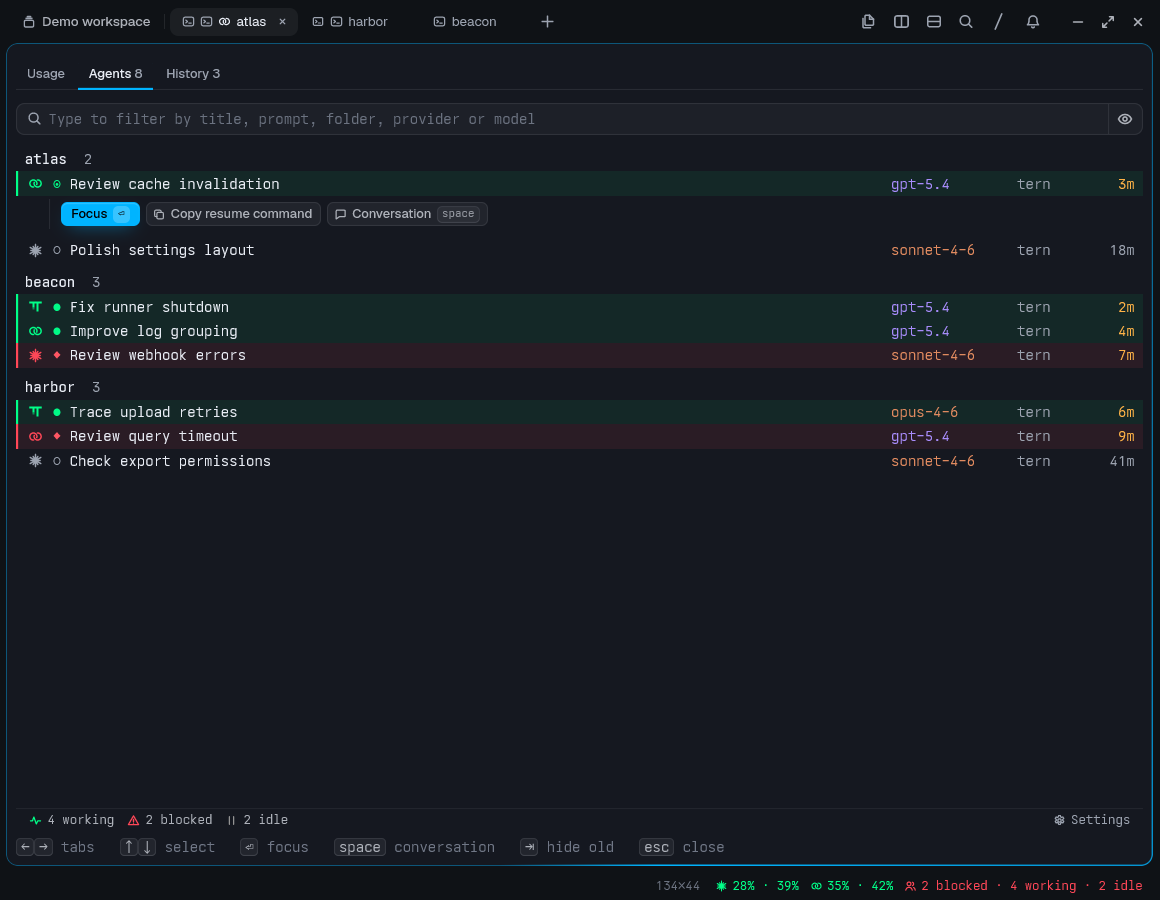
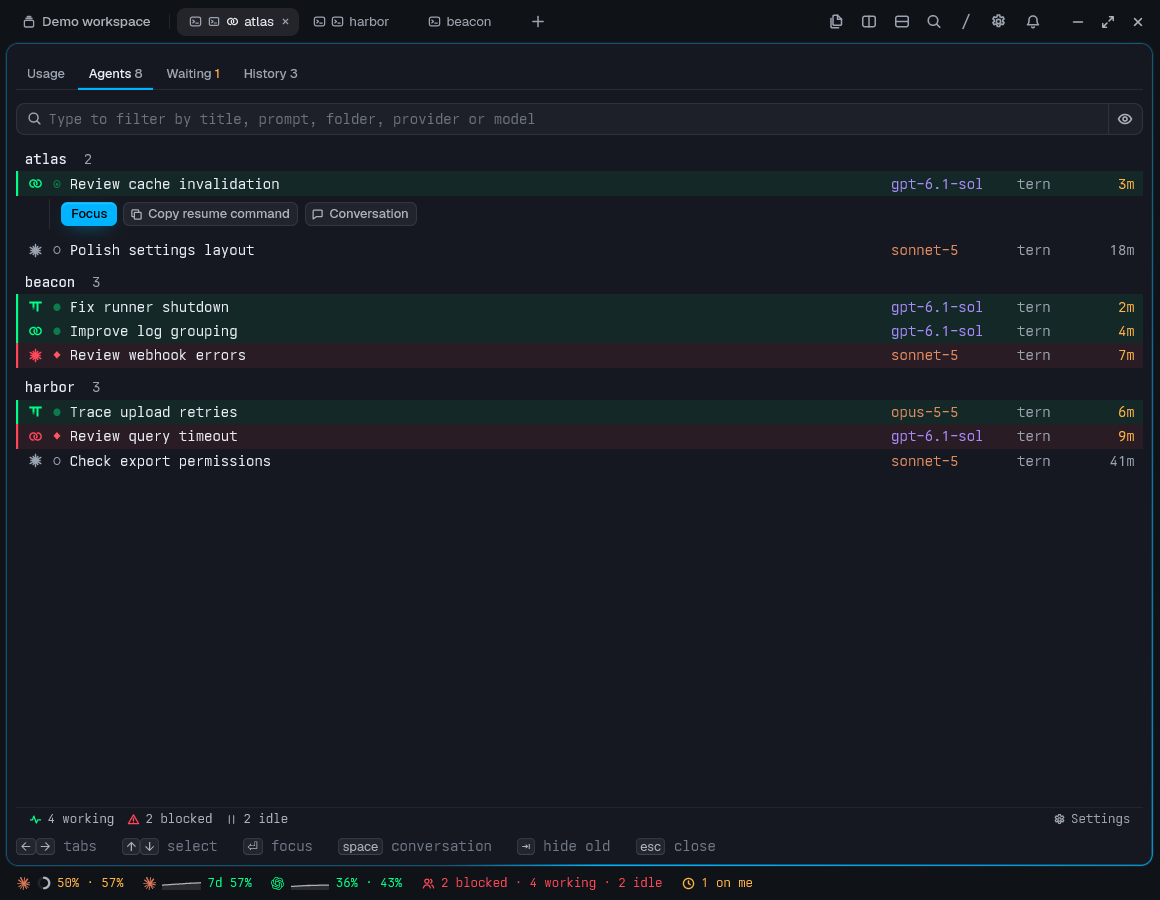
docs(tern): re-shoot the README screenshots with a script
film/shoot_tern.py reuses take_tern.py's scratch world (private Tern daemon,
stand-in agents, fixture sessions and usage, three sessions set aside) in a
1160x900 window. It crops the widget bar with the Claude widget's details,
zooms the dashboard and shoots Usage (grown to fit its providers), Agents,
Waiting, History and the Settings dialog straight into docs/tern/, with
toasts hidden.

The shots now show current model names and buttons without key hints, and
the Waiting tab gets its own screenshot in the README's row.

diff --git a/film/shoot_tern.py b/film/shoot_tern.py
@@ -1,0 +1,162 @@
+#!/usr/bin/env python3
+# /// script
+# requires-python = ">=3.11"
+# dependencies = ["pillow"]
+# ///
+"""Shoots the README's Tern screenshots into docs/tern/: the widget bar with the Claude widget's
+details, then the dashboard zoomed to fill the window on each tab (Usage, Agents, Waiting with a
+row's details open, History) and the Settings dialog over it.
+
+It runs take_tern.py's world (scratch HOME, private Tern daemon, stand-in agents, fixture
+agents.json and usage, three sessions set aside) in a 1160x900 window; Usage grows the window to
+fit its providers. Toasts are hidden so none covers a shot. WORK keeps the raw shots and their
+layout JSON; the next run replaces it.
+
+    headless-gui --size 1600x1000 -- uv run film/shoot_tern.py [WORK]
+        (default WORK /tmp/codexbar-agentview-shots-tern)
+
+Needs Tern and a Wayland session; headless-gui keeps the window off your desktop.
+"""
+
+import json
+import re
+import sys
+import time
+from pathlib import Path
+
+from PIL import Image
+
+sys.path.insert(0, str(Path(__file__).resolve().parent))
+import take_tern as base  # noqa: E402
+
+DOCS = base.REPO / "docs/tern"
+COMMAND = "plugin.codexbar-agentview."
+# The dashboard's tab strip, in this order, and the Settings dialog over it.
+TABS = ["usage", "agents", "waiting", "history"]
+TAB = r"sf-tabs\.kit-tabs>div\.kit-tab\.sf-tab[.a-z-]*$"
+PREFS = r"sf-prefs\.sf-act\.sf-window$"
+# Usage's provider cards, and the status bar and key hints docked under them.
+CARD = r"sf-region\.sf-main[.a-z-]*>div\.sf\.sf-card[.a-z-]*$"
+DOCK = r"sf-region\.sf-dock[.a-z-]*$"
+# The plugin's widgets at the widget bar's start (the first is Claude's), and a widget's details.
+WIDGET = r"footer#widgetbar>div\.wg-row>div\.wg\.carded[.a-z]*$"
+DETAILS = r"kit-popover\.wgc$"
+# Room between Usage's last card and its status bar, as the window grows to fit them.
+USAGE_GAP = 48
+
+
+class Shots(base.Take):
+    size = (1160, 900)
+
+    def prepare(self):
+        super().prepare()
+        # The tick that brings the passed check back on you toasts; a toast would cover a shot.
+        with open(self.work / "film.css", "a") as css:
+            css.write("div.toast { display: none !important; }\n")
+
+    def visible(self, pattern: str) -> list[list[float]]:
+        return [e["rect"] for e in self.layout()
+                if e["visible"] and e["rect"][2] > 0 and re.search(pattern, e["path"])]
+
+    def park_pointer(self):
+        """Puts the pointer in the window's corner, off every control, so nothing shows a hover."""
+        self.ctl("move", "4", str(self.height - 4))
+
+    def resize(self, height: int):
+        self.height = height
+        self.ctl("resize", str(self.size[0]), str(height))
+        time.sleep(1.0)
+        self.park_pointer()
+
+    def snap(self, name: str) -> Image.Image:
+        """Shoots the window, after a moment for it to settle."""
+        time.sleep(0.6)
+        self.ctl("shot", name)
+        return Image.open(self.shots / f"{name}.png")
+
+    def save(self, image: Image.Image, name: str):
+        image.save(DOCS / f"{name}.png", optimize=True)
+        print(f"docs/tern/{name}.png {image.width}x{image.height}")
+
+    def until(self, check, what: str, timeout=8.0):
+        deadline = time.monotonic() + timeout
+        while not check():
+            if time.monotonic() >= deadline:
+                raise RuntimeError(f"timed out waiting for {what}")
+            time.sleep(0.2)
+
+    def dashboard_block(self) -> dict | None:
+        return next((b for b in self.blocks() if str(b.get("program", "")).startswith("codexbar-agentview.dashboard")), None)
+
+    def open_dashboard(self):
+        """Opens Agents, which places the dashboard beside the tab's panes, then zooms its pane."""
+        self.ctl("plugins", "run", COMMAND + "agents")
+        self.until(lambda: (b := self.dashboard_block()) and b.get("focused"), "the dashboard")
+        # Its placement runs on a timer after it opens.
+        time.sleep(1.5)
+        self.ctl("zoom")
+        self.until(lambda: any(t.get("zoomed") for s in json.loads(self.tern("ls", "--json"))["sessions"]
+                               for t in s["tabs"] if t.get("shown")), "the zoomed dashboard")
+        self.show_tab("agents", run=False)
+
+    def show_tab(self, tab: str, run=True):
+        if run:
+            self.ctl("plugins", "run", COMMAND + tab)
+
+        def shown():
+            tabs = sorted(((e["rect"][0], e["path"]) for e in self.layout()
+                           if e["visible"] and e["rect"][2] > 0 and re.search(TAB, e["path"])))
+            return len(tabs) == len(TABS) and ".on" in tabs[TABS.index(tab)][1].rsplit(">", 1)[-1]
+
+        self.until(shown, f"the {tab} tab")
+        time.sleep(0.8)
+
+    def widget_bar(self):
+        """The bar's start with the Claude widget's details open over it."""
+        x, y, w, h = self.visible(WIDGET)[0]
+        self.ctl("move", f"{x + w / 2:.1f}", f"{y + h / 2:.1f}")
+        self.until(lambda: self.visible(DETAILS), "the Claude widget's details")
+        details = self.visible(DETAILS)[0]
+        right = max(r[0] + r[2] for r in self.visible(WIDGET))
+        image = self.snap("widget-bar")
+        self.save(image.crop((0, round(details[1]) - 18, round(right) + 7, image.height)), "widget-bar")
+        self.park_pointer()
+
+    def usage(self):
+        """Usage in a window grown until every provider fits above the status bar."""
+        self.show_tab("usage")
+        tall = 2000
+        self.resize(tall)
+        bottom = max(r[1] + r[3] for r in self.visible(CARD))
+        dock = min(r[1] for r in self.visible(DOCK))
+        self.resize(round(tall - (dock - bottom) + USAGE_GAP))
+        self.save(self.snap("usage"), "usage")
+        self.resize(self.size[1])
+
+    def film(self):
+        self.height = self.size[1]
+        self.tern("focus", str(self.tabs["atlas"]))
+        time.sleep(2.5)
+        self.widget_bar()
+
+        self.open_dashboard()
+        # The first row is selected, its buttons open under it.
+        self.save(self.snap("agents"), "agents")
+        self.usage()
+        self.show_tab("history")
+        self.save(self.snap("history"), "history")
+        # The row back on you leads, its details (what happened since it was set aside) open.
+        self.show_tab("waiting")
+        self.ctl("key", "Space")
+        time.sleep(0.6)
+        self.save(self.snap("waiting"), "waiting")
+        self.ctl("key", "Space")
+
+        self.show_tab("agents")
+        self.ctl("plugins", "run", COMMAND + "settings")
+        self.wait_shown(PREFS)
+        self.save(self.snap("settings"), "settings")
+
+
+if __name__ == "__main__":
+    Shots(Path(sys.argv[1] if len(sys.argv) > 1 else "/tmp/codexbar-agentview-shots-tern").resolve()).run()

diff --git a/README.md b/README.md
@@ -52,11 +52,11 @@ CodexBar module.
 <details>
 <summary>Screenshots</summary>
 
-![Tern widget bar: the combined Claude usage ring, the combined Codex 5h graph, agent counts and the Claude widget's details](docs/tern/widget-bar.png)
+![Tern widget bar: the combined Claude usage ring, the Claude 7d graph, the combined Codex graph, agent counts, sessions back on you and the Claude widget's details](docs/tern/widget-bar.png)
 
-| Usage | Agents | History | Settings |
-| :---: | :---: | :---: | :---: |
-| [![Tern usage](docs/tern/usage.png)](docs/tern/usage.png) | [![Tern agents](docs/tern/agents.png)](docs/tern/agents.png) | [![Tern history](docs/tern/history.png)](docs/tern/history.png) | [![Tern settings](docs/tern/settings.png)](docs/tern/settings.png) |
+| Usage | Agents | Waiting | History | Settings |
+| :---: | :---: | :---: | :---: | :---: |
+| [![Tern usage](docs/tern/usage.png)](docs/tern/usage.png) | [![Tern agents](docs/tern/agents.png)](docs/tern/agents.png) | [![Tern waiting](docs/tern/waiting.png)](docs/tern/waiting.png) | [![Tern history](docs/tern/history.png)](docs/tern/history.png) | [![Tern settings](docs/tern/settings.png)](docs/tern/settings.png) |
 
 </details>
 
@@ -592,7 +592,9 @@ with `python tests/run.py` (parallel, slowest tests first; `-j N` sets the
 workers, `--durations N` lists the slowest, names narrow it). Re-render the films with
 `uv run film/take_kde.py && uv run film/compose.py kde`, or `take_tern.py` and
 `compose.py tern`, or `take_waiting.py` and `compose.py waiting`; the Tern takes
-open a window on a scratch daemon for about a minute.
+open a window on a scratch daemon for about a minute. Re-shoot the Tern screenshots
+in `docs/tern/` with `headless-gui -- uv run film/shoot_tern.py`, on the same kind of
+scratch daemon.
 
 ## License
 
